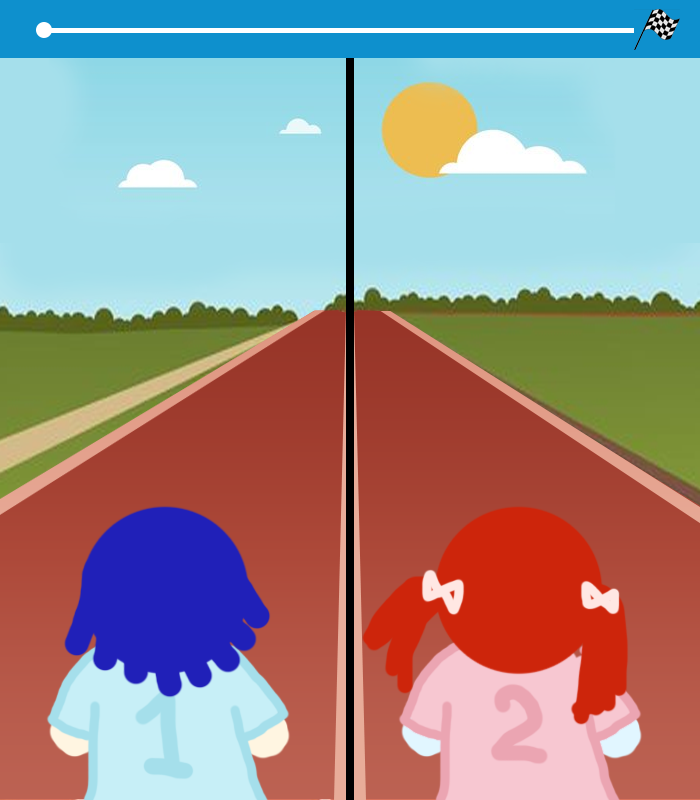
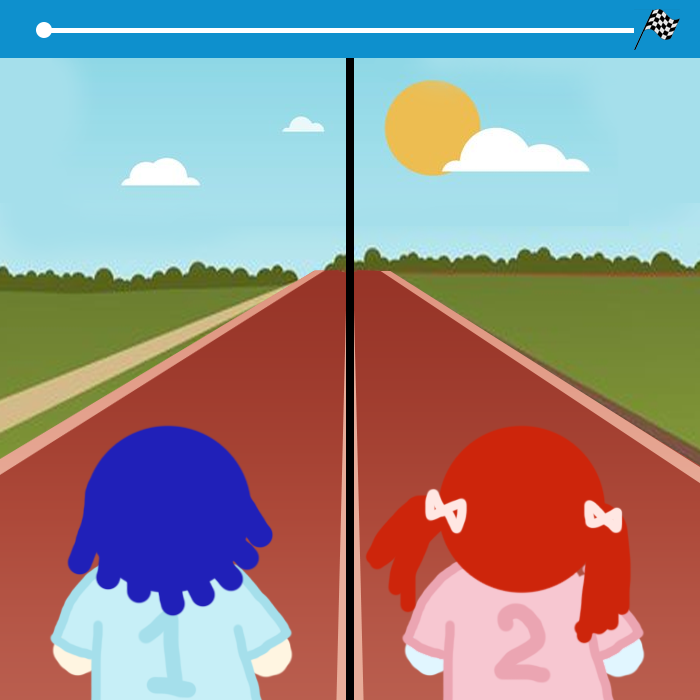
fixed bg problem

diff --git a/core/src/com/blowrunning/game/GameScreen.java b/core/src/com/blowrunning/game/GameScreen.java
@@ -24,6 +24,7 @@ public class GameScreen extends ScreenAdapter {
         statusbar = new Texture("statusbar.png");
         sprite = new Sprite(bg);
         sttb = new Sprite(statusbar);
+        sprite.setOriginCenter();
     }
   
 	@Override
@@ -33,7 +34,6 @@ public class GameScreen extends ScreenAdapter {
             Gdx.gl.glClear(GL20.GL_COLOR_BUFFER_BIT);
             batch.begin();
             batch.draw(bg, 0, 0);
-            batch.draw(sttb, 0, 680);
             world.render(delta);
             batch.end();
 	}

diff --git a/core/src/com/blowrunning/game/World.java b/core/src/com/blowrunning/game/World.java
@@ -16,9 +16,6 @@ public class World {
       runner1 = new Runner(36, 761, this, 1);
       runner2 = new Runner(36, 761, this, 2);
       map = new Maps();
-      runner1 = new Runner(40, 700, this, 1);
-      runner2 = new Runner(40, 700, this, 2);
-      map = new Maps();
       Item global = new LaneItem(1);
       this.blowrunningGame = blowrunningGame;
       entities.add((Entity) runner1);

diff --git a/core/src/com/blowrunning/game/BlowrunningGame.java b/core/src/com/blowrunning/game/BlowrunningGame.java
@@ -6,7 +6,7 @@ import com.badlogic.gdx.graphics.g2d.SpriteBatch;
 public class BlowrunningGame extends Game {
 	public static SpriteBatch batch;
         public static final int WIDTH = 700;
-        public static final int HEIGHT = 800;
+        public static final int HEIGHT = 700;
 	
 	@Override
 	public void create () {
